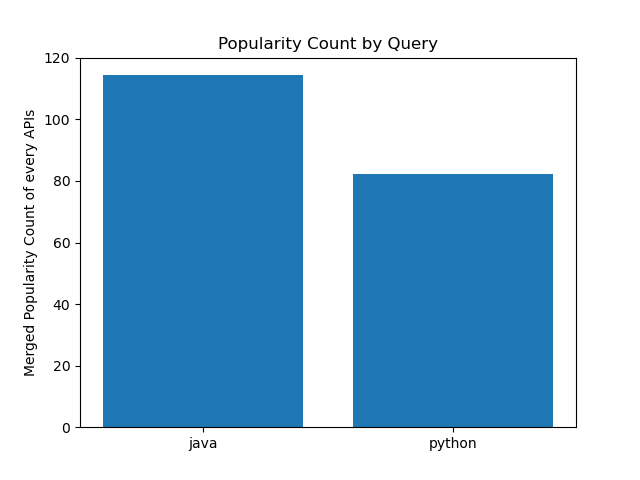
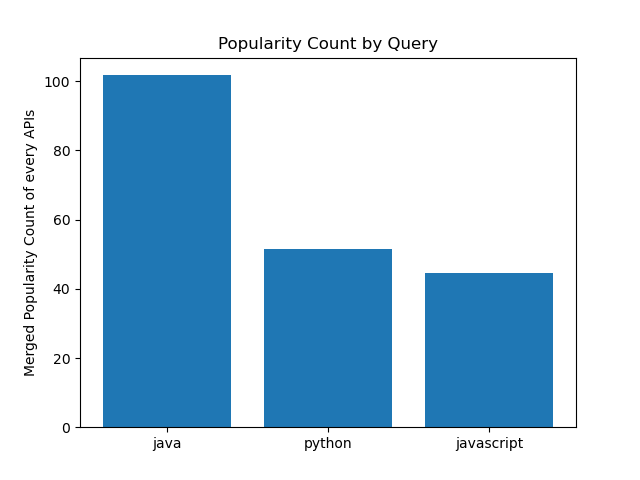
twitter restrictions corrected
The program now pauses if twitter has checked more than 275 min for 15min

diff --git a/Hit_Count_Engine/twitter/twitter.py b/Hit_Count_Engine/twitter/twitter.py
@@ -1,15 +1,7 @@
 import requests
+import time
 import json
 
-def twitter_process(a_list, eliminating):
-	res_dict = {}
-	for query in a_list:
-		fetch = Fetch(query)
-		new_count = fetch.getCount()
-		res_dict.update({query: new_count})
-	return res_dict
-		
-	
 
 class Fetch:
     def __init__(self, query):
@@ -19,7 +11,7 @@ class Fetch:
         self.query = query
         self.bearer_token = "F8vjwbTQLdew9DilAjVVKiO5QoRcCLhu"
         self.payload = {}
-        self.headers = { 
+        self.headers = {
             'Authorization': 'Bearer AAAAAAAAAAAAAAAAAAAAAOt8UAEAAAAAEN0BvdqkKaVE9slkjxdut6MPSXk'
                              '%3DI4q1yypw35bZx0KGloF8vjwbTQLdew9DilAjVVKiO5QoRcCLhu '
         }
@@ -29,21 +21,36 @@ class Fetch:
         tweets_response = requests.request("GET", url, headers=self.headers, data=self.payload)
         tweets_response_text = json.loads(tweets_response.text)
         for tweet in tweets_response_text['data']:
-            print(tweet['text'],"\n\n\n")
+            print(tweet['text'], "\n\n\n")
 
     def getCount(self):
         url = "https://api.twitter.com/2/tweets/counts/recent?query=%23{}".format(self.query)
         count_response = requests.request("GET", url, headers=self.headers, data=self.payload)
         count_response_text = json.loads(count_response.text)
-        return	count_response_text['meta']['total_tweet_count']
-        print("How many tweets with #{} as the query: {}\n\n\n".format(
-            self.query,
-            count_response_text['meta']['total_tweet_count'])) 
-	
-	
+        return count_response_text['meta']['total_tweet_count']
+        #print("How many tweets with #{} as the query: {}\n\n\n".format(self.query, count_response_text['meta']['total_tweet_count']))
+
+
+def twitter_process(a_list, eliminating):
+    res_dict = {}
+    i = 1
+    for query in a_list:
+        if i%275==0:
+            print("The program is pausing to avoid twitter restrictions of 300 items/15min")
+            time.sleep(15*60)
+        print(query)
+        fetch = Fetch(query)
+        new_count = fetch.getCount()
+        res_dict.update({query: new_count})
+        print("Popularity of " + query + " : " + str(new_count) +"\n")
+        i+=1
+    return res_dict
+
+
 def main():
-	print("hello1")
-	twitter_process()
-	
+    print("hello1")
+    twitter_process()
+
+
 if __name__ == "__main__":
     main()

diff --git a/Hit_Count_Engine/main.py b/Hit_Count_Engine/main.py
@@ -15,8 +15,7 @@ import pandas as pd
 import datetime
 import time
 
-#processes = [reddit_process, twitter_process]
-processes = [twitter_process]
+processes = [twitter_process, reddit_process]
 
 
 
@@ -110,6 +109,7 @@ def processAPIprograms(queries, qualifying_terms, norm=True):
         """th = threading.main_thread(target=process, args="qualifying_terms")
         th.start()
         resultDicts[name]=th"""
+
         resultDicts[name]=(process(queries, qualifying_terms))
         print("-----Processing queries through " + name + " API has ended:-----\n")
 
@@ -166,8 +166,8 @@ def main():
     #TODO change queries to real queries from JSON
 
     # Test input, to comment
-    queries = ["python", "java", "golang"]
-    qualifying_terms = ["comput", "program", "code", "develop"]
+    #queries = ["python", "java", "golang", "javascript"]
+    #qualifying_terms = ["comput", "program", "code", "develop"]
 
     #Threading ?
     #results = threading.Thread(target=processAPIprograms, args=(queries, qualifying_terms, True))
